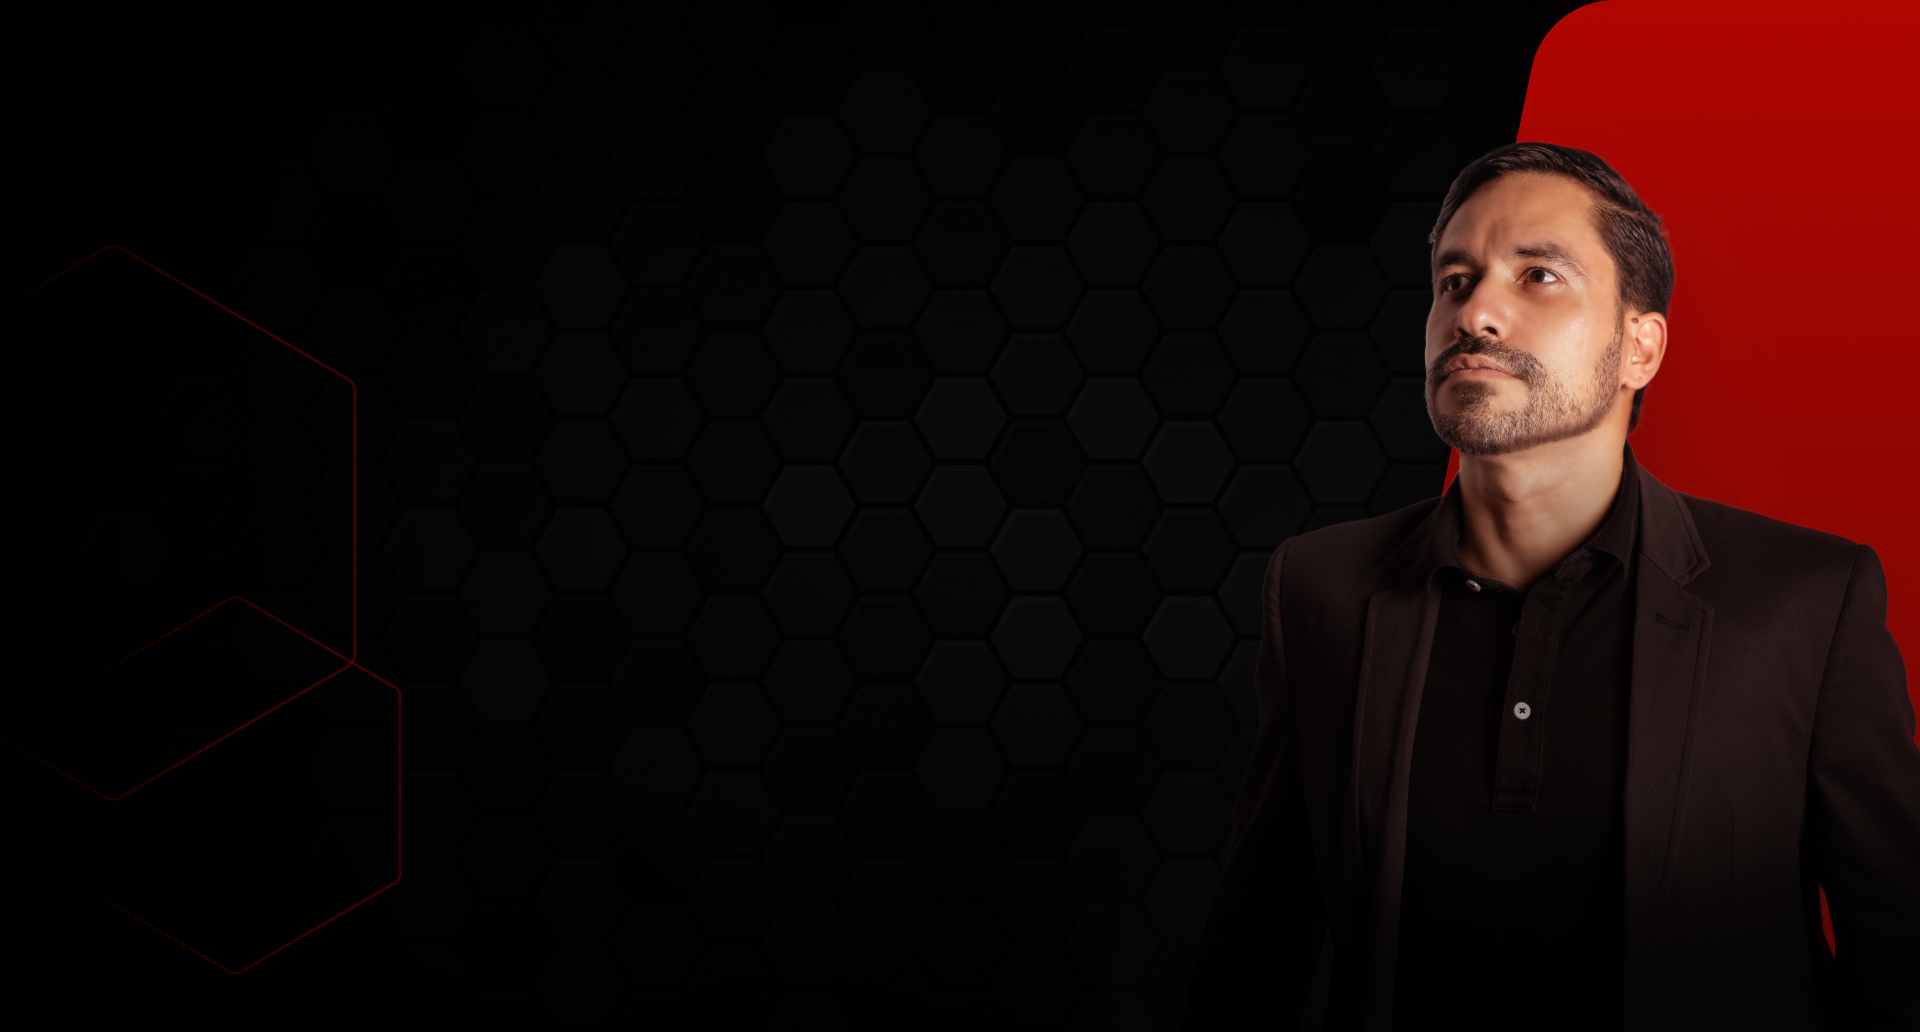
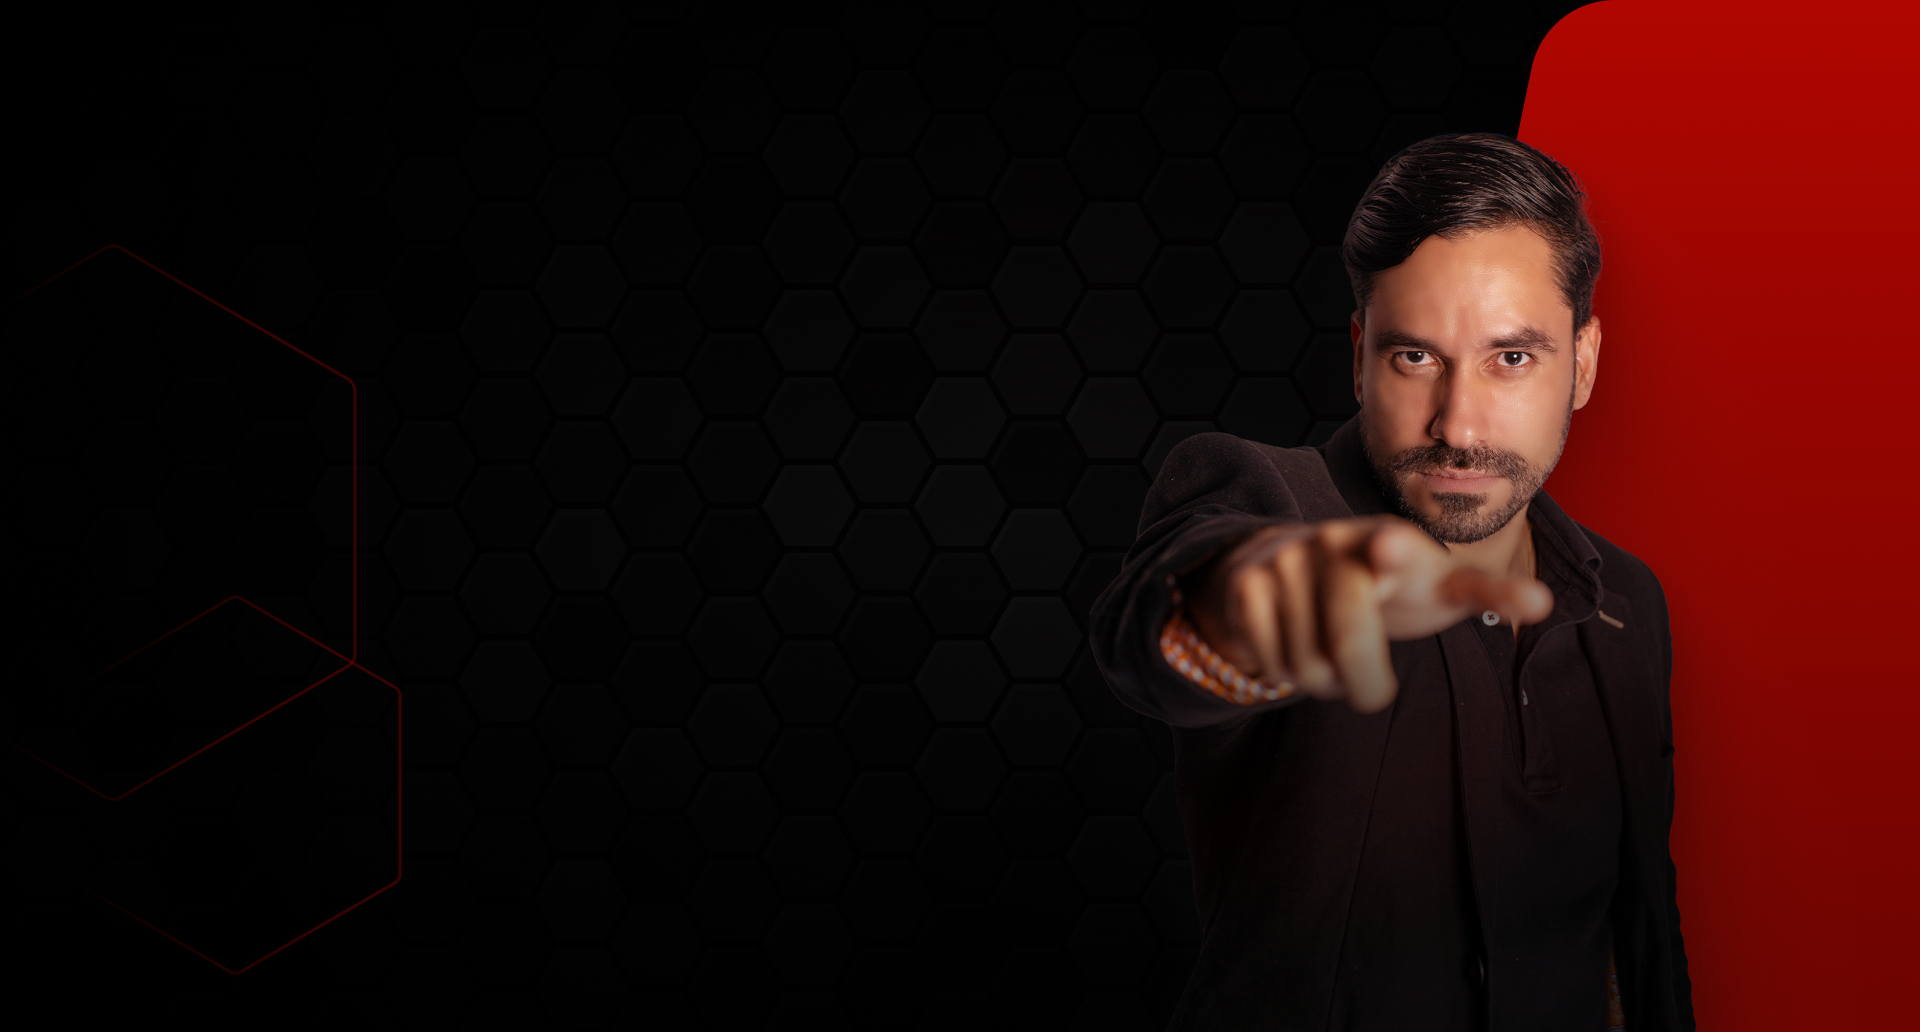
Trabalho 13/01/2025

Changed region(s): [[0.5938, 0.124, 1.0, 1.0], [0.8125, 0.9302, 0.8438, 0.9922]]

diff --git a/index.html b/index.html
@@ -4,7 +4,7 @@
     <meta charset="UTF-8">
     <meta name="viewport" content="width=device-width, initial-scale=1.0">
     <link rel="shortcut icon" href="img/favicon.png" type="image/x-icon">
-    <title>Ferramenta do Contador Gestor</title>
+    <title>Técnicas de SEO</title>
 
     <!-- Link Bootstrap -->
     <link href="https://cdn.jsdelivr.net/npm/bootstrap@5.3.3/dist/css/bootstrap.min.css" rel="stylesheet" integrity="sha384-QWTKZyjpPEjISv5WaRU9OFeRpok6YctnYmDr5pNlyT2bRjXh0JMhjY6hW+ALEwIH" crossorigin="anonymous">
@@ -79,10 +79,10 @@
                 <div class="col-lg-7 my-auto">
                     <div class="content-bannerinicial">
                         <h1>
-                            FERRAMENTAS DO <span class="txt-vermelho">CONTADOR GESTOR:</span>  ALCANCE NOVOS <span class="txt-vermelho">PATAMARES</span> NO SEU <span class="txt-vermelho">NEGÓCIO</span>
+                            TÉCNICAS DE <span class="txt-vermelho">SEO</span> PARA O <span class="txt-vermelho">MERCADO CONTÁBIO</span>
                         </h1>
                         <p class="mb-4">
-                            Aprimore sua gestão contábil com um conjunto completo de controles e ferramentas exclusivas. Adquira agora para receber alguns bônus exclusivos enquanto durar nosso estoque de atendimento.
+                            Domine o SEO e aumente suas vendas no mercado contábil. Google e Bing atraem milhões de empresas buscando serviços contábeis. Não fique de fora desse mercado bilionário. Adquira agora e aproveite bônus exclusivos.
                         </p>
                         <a href="#" class="py-2 py-xxl-3 px-5 rounded-2">
                             COMPRAR AGORA
@@ -143,7 +143,7 @@
                     <div class="col-lg-7 ">
                         <div class="content-texto-sobre">
                             <p>
-                                Com as Ferramentas do Contador Gestor, você terá acesso a um conjunto completo de controles e tecnologias exclusivas, incluindo tabela de precificação, modelo de proposta contábil, script de vendas, modelo de contrato e muito mais. Receba suporte imediato, faça parte de uma comunidade exclusiva e mantenha-se atualizado com as últimas ferramentas do mercado contábil. Não perca essa oportunidade de aprimorar sua gestão contábil e garantir suas ferramentas agora mesmo.
+                                Neste curso prático, você aprenderá a implementar técnicas de SEO para otimizar seu site contábil de forma simples e automatizada. Aumente seu rank e alcance as primeiras páginas do Google em poucos dias, sem necessidade de ser especialista em marketing ou SEO. Deixe as ferramentas trabalharem por você enquanto foca no atendimento ao cliente e no crescimento do seu negócio contábil. Aprenda a selecionar palavras-chave, ajustar conteúdos e atrair tráfego qualificado de forma orgânica. Destaque-se no marketing digital contábil e desenvolva uma presença online sólida e eficaz.
                             </p>
                         </div>
                     </div>
@@ -164,6 +164,11 @@
             -->
             <div class="container px-5 d-flex align-items-center rounded-4" id="criador">
                 <div class="row">
+                    <div class="col-lg-6">
+                        <div class="content2-criador d-none d-lg-block">
+                            <img src="img/foto-carlos-santos.png" alt="Criador Carlos Santos" class="img-fluid">
+                        </div>
+                    </div>
                     <div class="col-lg-6 my-auto">
                         <div class="content1-criador py-3">
                             <h2 class="text-center text-lg-start">
@@ -173,13 +178,8 @@
                                 CONHEÇA MELHOR QUEM CRIOU O ACERVO DE ARQUIVOS
                             </h3>
                             <P>
-                                Descubra como aprimorar a gestão do seu negócio contábil com quem já faz acontecer por 23 anos, Investidor e CEO da Anexo Gestão Contábil, atua com 16 unidades no Brasil e mais de 2 mil clientes ativos, lidera uma equipe de mais de 100 pessoas, especializado em Marketing, Controles Internos, Gestão de Negócios Contábeis e Custos. Transforme sua compreensão de gestão com o vasto conhecimento e a experiência de quem já alcançou altos níveis de prosperidade, alcance novos patamares para o seu negócio com o novo produto digital Ferramenta do Contador Gestor.
+                                Aprimore a gestão do seu negócio contábil com a experiência de 23 anos de um investidor e CEO da Anexo Gestão Contábil, que possui 16 unidades no Brasil, mais de 2 mil clientes ativos e uma equipe de mais de 100 pessoas. Especializado em Marketing, Controles Internos, Gestão de Negócios Contábeis e Custos, ele oferece o novo produto digital Ferramenta do Contador Gestor para transformar sua compreensão de gestão e levar seu negócio a novos patamares.
                             </P>
-                        </div>
-                    </div>
-                    <div class="col-lg-6">
-                        <div class="content2-criador d-none d-lg-block">
-                            <img src="img/foto-carlos-santos.png" alt="Criador Carlos Santos" class="img-fluid">
                         </div>
                     </div>
                 </div>
@@ -236,7 +236,7 @@
                                     R$
                                 </p>
                                 <p class="valor2-dinheiro">
-                                    47,00
+                                    59,00
                                 </p>
                             </div>
                             <a href="#" class="py-3 px-5 rounded-3">
@@ -265,7 +265,7 @@
                                 <div class="accordion-item mt-3 rounded-3">
                                     <h2 class="accordion-header">
                                     <button class="accordion-button rounded-3 collapsed" type="button" data-bs-toggle="collapse" data-bs-target="#collapseOne" aria-expanded="true" aria-controls="collapseOne">
-                                        Para quem é esse produto?
+                                        Quem avaliou Técnicas de SEO para o Mercado Contábil?
                                     </button>
                                     </h2>
                                     <div id="collapseOne" class="accordion-collapse collapse show" data-bs-parent="#accordionExample">
@@ -290,7 +290,7 @@
                                 <div class="accordion-item mt-3 rounded-3">
                                     <h2 class="accordion-header">
                                     <button class="accordion-button rounded-3 collapsed" type="button" data-bs-toggle="collapse" data-bs-target="#collapseThree" aria-expanded="false" aria-controls="collapseThree">
-                                        Como faço para solicitar meu Bônus?
+                                        O que é e como funciona o Certificado de Conclusão digital?
                                     </button>
                                     </h2>
                                     <div id="collapseThree" class="accordion-collapse collapse" data-bs-parent="#accordionExample">
@@ -302,7 +302,7 @@
                                 <div class="accordion-item mt-3 rounded-3">
                                     <h2 class="accordion-header">
                                         <button class="accordion-button rounded-3 collapsed" type="button" data-bs-toggle="collapse" data-bs-target="#collapse4" aria-expanded="false" aria-controls="collapse4">
-                                            Como acessar o produto?
+                                            Quais diferenciais os produtos podem ter?
                                         </button>
                                     </h2>
                                     <div id="collapse4" class="accordion-collapse collapse" data-bs-parent="#accordionExample">
@@ -314,7 +314,7 @@
                                 <div class="accordion-item mt-3 rounded-3">
                                     <h2 class="accordion-header">
                                         <button class="accordion-button rounded-3 collapsed" type="button" data-bs-toggle="collapse" data-bs-target="#collapse5" aria-expanded="false" aria-controls="collapse5">
-                                            Como faço para comprar?
+                                            Tenho interesse neste curso, como posso comprar?
                                         </button>
                                     </h2>
                                     <div id="collapse5" class="accordion-collapse collapse" data-bs-parent="#accordionExample">
